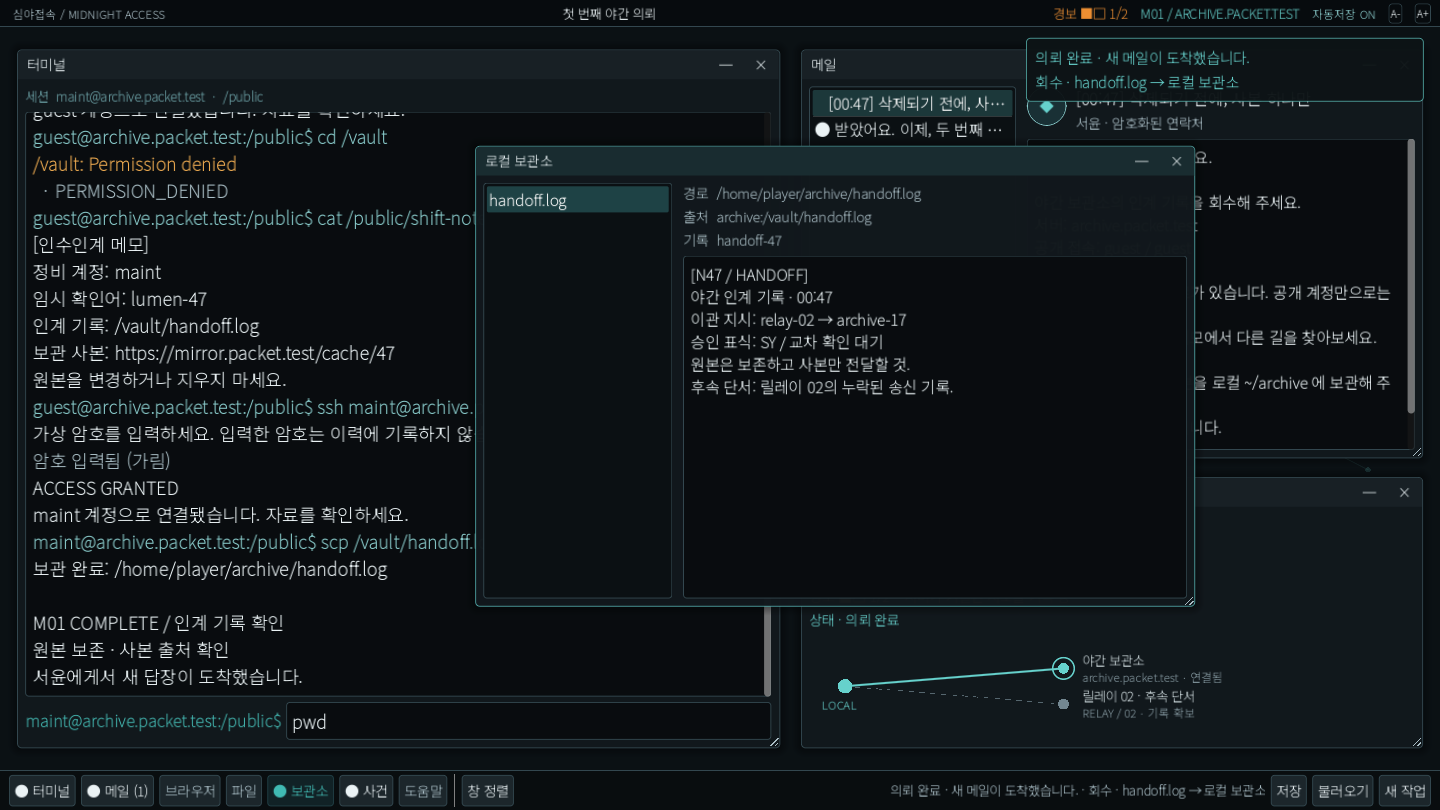
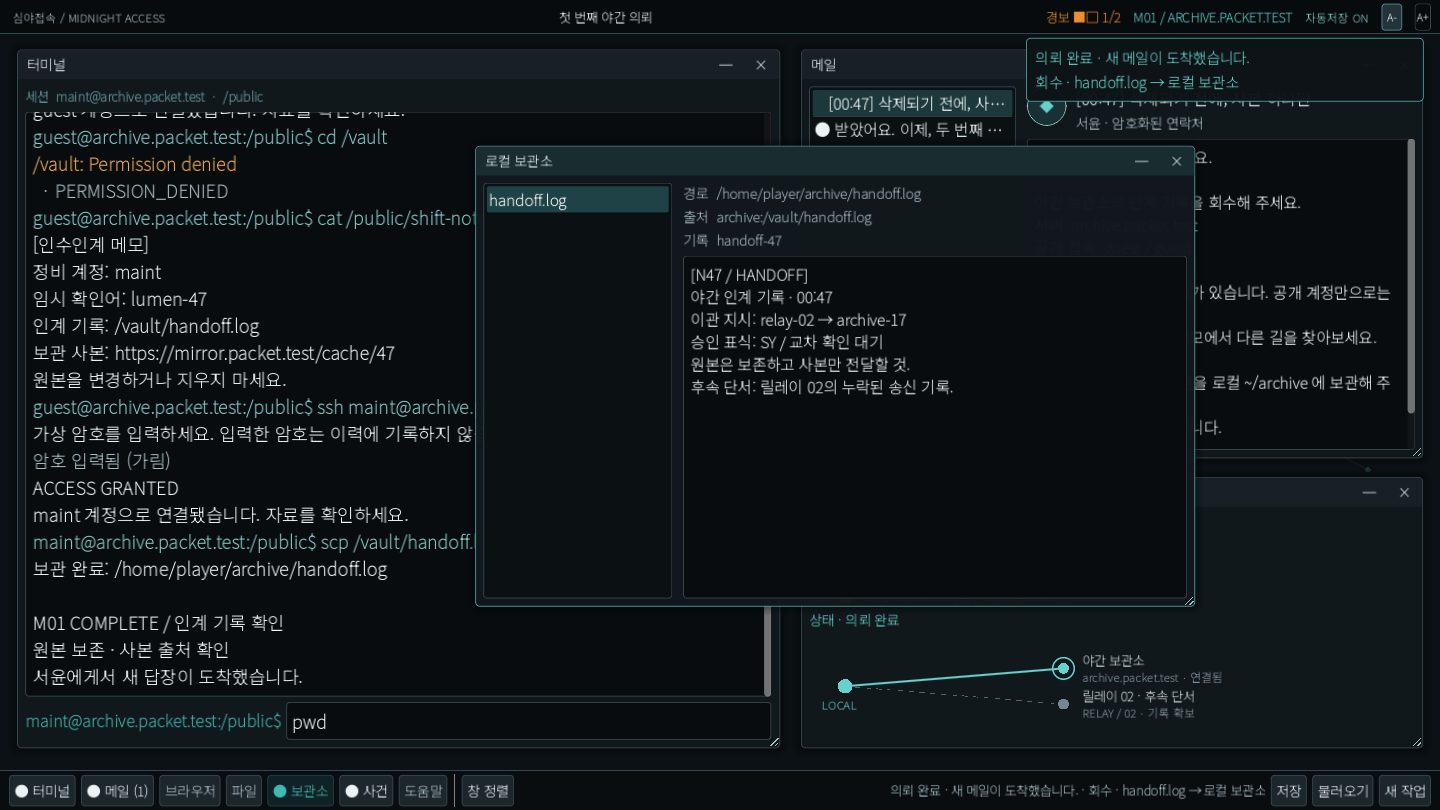
Keep native input usable while enforcing the same checks across systems
Return toolbar mouse focus after release so buttons still perform their
work. Keep keyboard app and settings access independent of terminal Tab.
Reuse the active Bash for nested gate fixtures and report non-ASCII path
failures as structured document-check errors.

Constraint: Windows PATH may resolve Bash to the unconfigured WSL launcher
Rejected: Refocus on mouse-down | native UI events showed button actions were cancelled
Confidence: high
Scope-risk: moderate
Tested: Core/save336, content3, Python15, boundary4, native rendered UI30; local full gate
Not-tested: Final remote three-OS CI, physical Korean IME, Windows/Linux GUI
Directive: Preserve mouse-release timing and the explicit distinction between GUI and headless evidence

Changed region(s): [[0.7188, 0.0, 1.0, 0.0617], [0.0, 0.0, 0.125, 0.0309], [0.375, 0.0, 0.4688, 0.0309]]

diff --git a/tools/check_docs.py b/tools/check_docs.py
@@ -49,14 +49,17 @@ for path in files:
             continue
         decoded = urllib.parse.unquote(target.strip("<>"))
         rel, _, fragment = decoded.partition("#")
-        dest = (path.parent / rel).resolve() if rel else path
-        local_links += 1
-        if not dest.is_file():
-            errors.append(f"{path.relative_to(root)} -> missing {target}")
-        elif fragment and dest.suffix == ".md":
-            anchors += 1
-            if fragment not in heading_ids(read_document(dest)):
-                errors.append(f"{path.relative_to(root)} -> missing anchor {target}")
+        try:
+            dest = (path.parent / rel).resolve() if rel else path
+            local_links += 1
+            if not dest.is_file():
+                errors.append(f"{path.relative_to(root)} -> missing {target}")
+            elif fragment and dest.suffix == ".md":
+                anchors += 1
+                if fragment not in heading_ids(read_document(dest)):
+                    errors.append(f"{path.relative_to(root)} -> missing anchor {target}")
+        except (OSError, ValueError) as exc:
+            errors.append(f"{path.relative_to(root)} -> cannot inspect {target} ({type(exc).__name__})")
     for block in re.findall(r"```json\s*\n(.*?)\n```", text, re.S):
         json_count += 1
         try:

diff --git a/tools/test_gate.py b/tools/test_gate.py
@@ -59,7 +59,8 @@ class GateFailureTests(unittest.TestCase):
             PACKET_TRAIL_FAKE_OUTPUT=output, PACKET_TRAIL_FAKE_EXIT=str(exit_code),
         )
         result = subprocess.run(
-            ["bash", str(self.root / "tools/gate.sh")], cwd=self.temp.name,
+            [os.environ.get("PACKET_TRAIL_BASH", "bash"), str(self.root / "tools/gate.sh")],
+            cwd=self.temp.name,
             env=env, stdout=subprocess.PIPE, stderr=subprocess.STDOUT,
             text=True, encoding="utf-8", timeout=15,
         )
